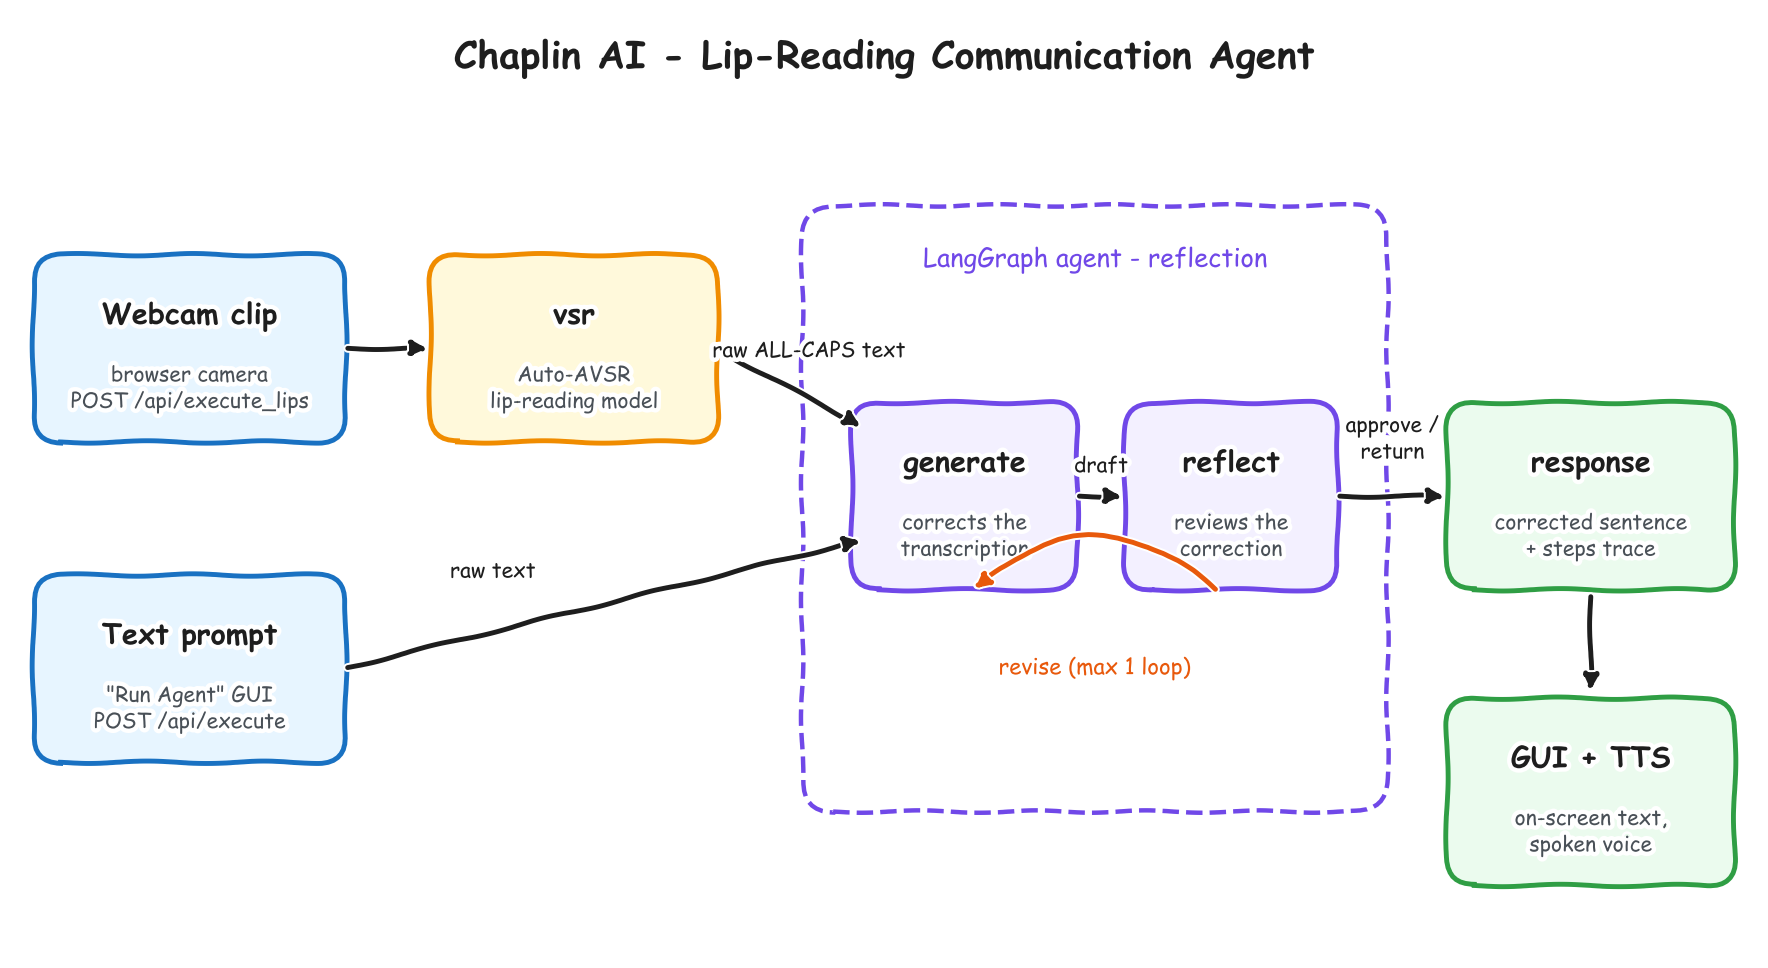
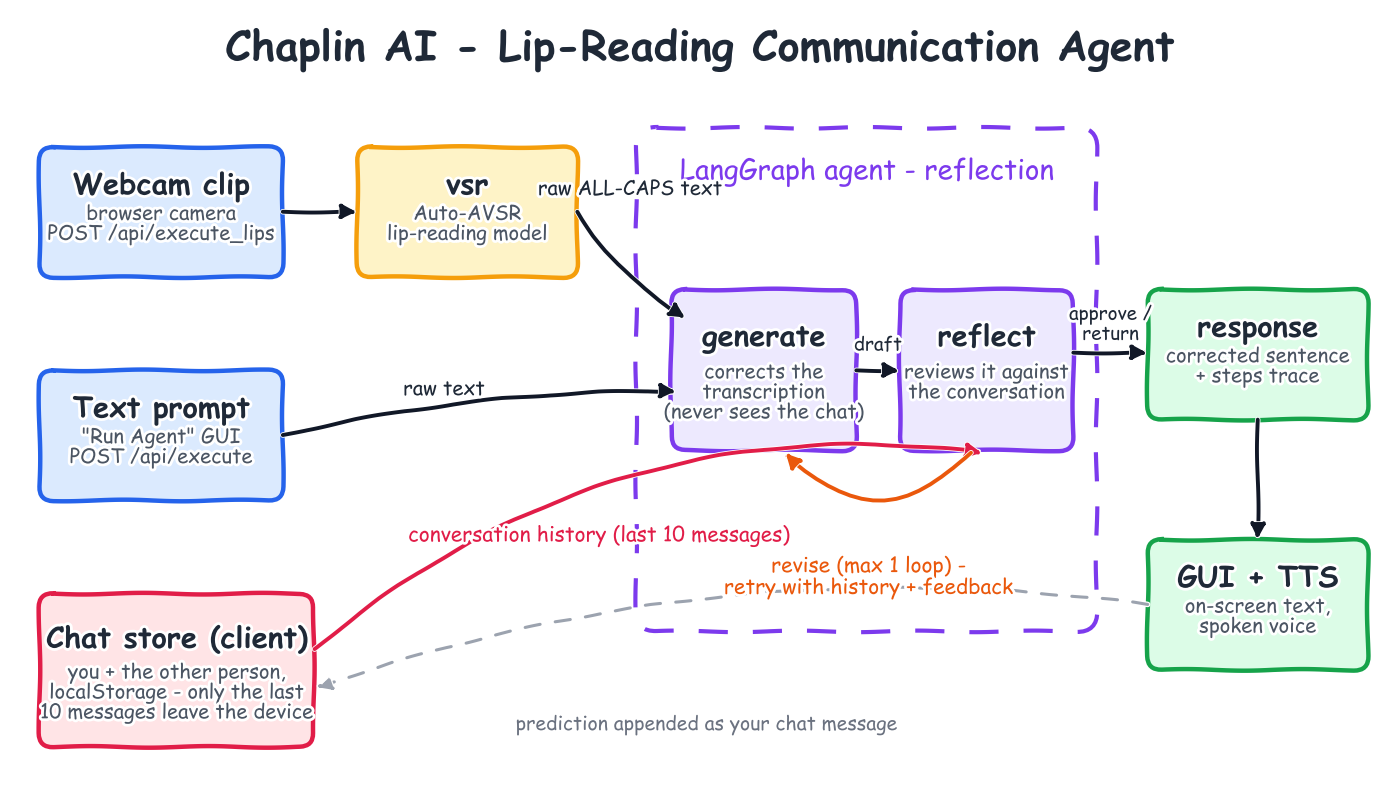
docs: regenerate architecture.png with chat store + update README/CLAUDE

diff --git a/README.md b/README.md
@@ -6,10 +6,20 @@ a LangGraph reflection agent, shows one clean line of text, and — on **Speak**
 voices it back in the user's chosen voice. A **Run Agent** panel also accepts plain
 text input (presets or free text), so the agent can be exercised without a camera.
 
+A **Chat** lets the user hold a conversation with a second character: messages from
+the other person are typed in, predictions become the user's own messages, and the
+last 10 messages act as the agent's short-term memory. The first `generate` pass is
+deliberately **stateless** — only `reflect` (and the single revision pass) sees the
+conversation, so it can catch corrections that read well in isolation but are wrong
+in context (e.g. "Where's my bill?" → "Where's my pill?" after a nurse mentioned
+medication). Chats live in the browser (localStorage); only the text window is sent.
+
 ```
 webcam clip ─▶ vsr (Auto-AVSR) ─▶ generate ─▶ reflect ─▶ response + steps ─▶ GUI / TTS
-                                      ▲           │
-                                      └─ revise ──┘  (max 1 loop)
+                                      ▲           │  ▲
+                                      └─ revise ──┘  └── chat history (last 10)
+                                       (max 1 loop,
+                                        history + feedback)
 ```
 
 ## Architecture (monorepo)
@@ -32,14 +42,16 @@ block immediately after inference. Video is never persisted; only text leaves th
 | `GET  /api/team_info`        | student details                                                    |
 | `GET  /api/agent_info`       | agent description, purpose, prompt template + real examples        |
 | `GET  /api/model_architecture` | architecture diagram (PNG)                                       |
-| `POST /api/execute`          | `{ prompt }` → `{ status, error, response, steps }` (text → agent) |
-| `POST /api/execute_lips`     | mp4/webm clip → same shape (VSR → agent); steps start with `vsr`   |
+| `POST /api/execute`          | `{ prompt, conversation? }` → `{ status, error, response, steps }` (text → agent) |
+| `POST /api/execute_lips`     | mp4/webm clip (+ optional `conversation` form field) → same shape (VSR → agent); steps start with `vsr` |
 | `POST /speak`                | `{ text, voice_id }` → audio + word timestamps (Inworld TTS)       |
 | `GET  /voices` · `POST /voice/select` · `POST /voice/enroll` | voice catalog / selection / cloning |
 | `GET  /health`               | liveness                                                           |
 
 `steps` lists every model call in order as `{ module, prompt, response }`, with
 module names (`vsr`, `generate`, `reflect`) matching `assets/architecture.png`.
+`conversation` is an optional `[{ "role": "self"|"other", "content": "..." }]`
+history window (the client sends the active chat's last 10 messages).
 
 ## Prerequisites
 

diff --git a/CLAUDE.md b/CLAUDE.md
@@ -14,10 +14,15 @@ webcam ─▶ short mp4 clip ─▶ vsr (Auto-AVSR lip-reading)
                                         │
                                         ▼
               LangGraph reflection agent: generate ─▶ reflect ─▶ (revise once | return)
+                       (stateless)           ▲ chat history (last 10 msgs)
                                         │
                                         ▼
                 on-screen text + steps trace  +  optional TTS voice clone
 ```
+- Conversations (second character): chats live client-side (localStorage,
+  `app/src/lib/chat.ts`, sigma-agent-server-style repository + last-10 window).
+  `/api/execute` and `/api/execute_lips` take an optional `conversation` history;
+  the first generate pass never sees it — only reflect and the revision pass do.
 - Three services:
   1. **SPA** (`app/`) — static, on Vercel.
   2. **API backend** (`backend/app/main.py`, FastAPI) — `/api/team_info`,
